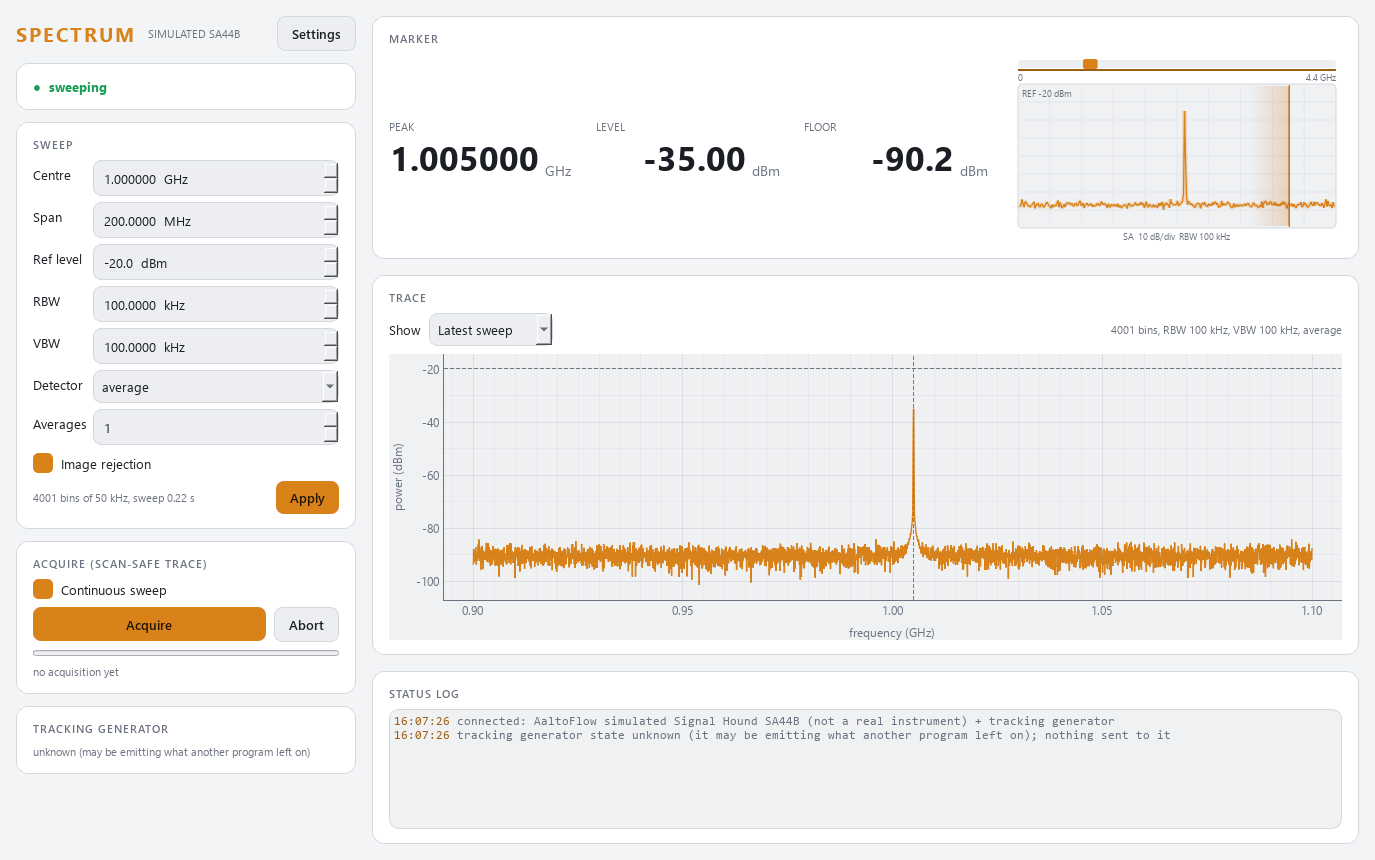
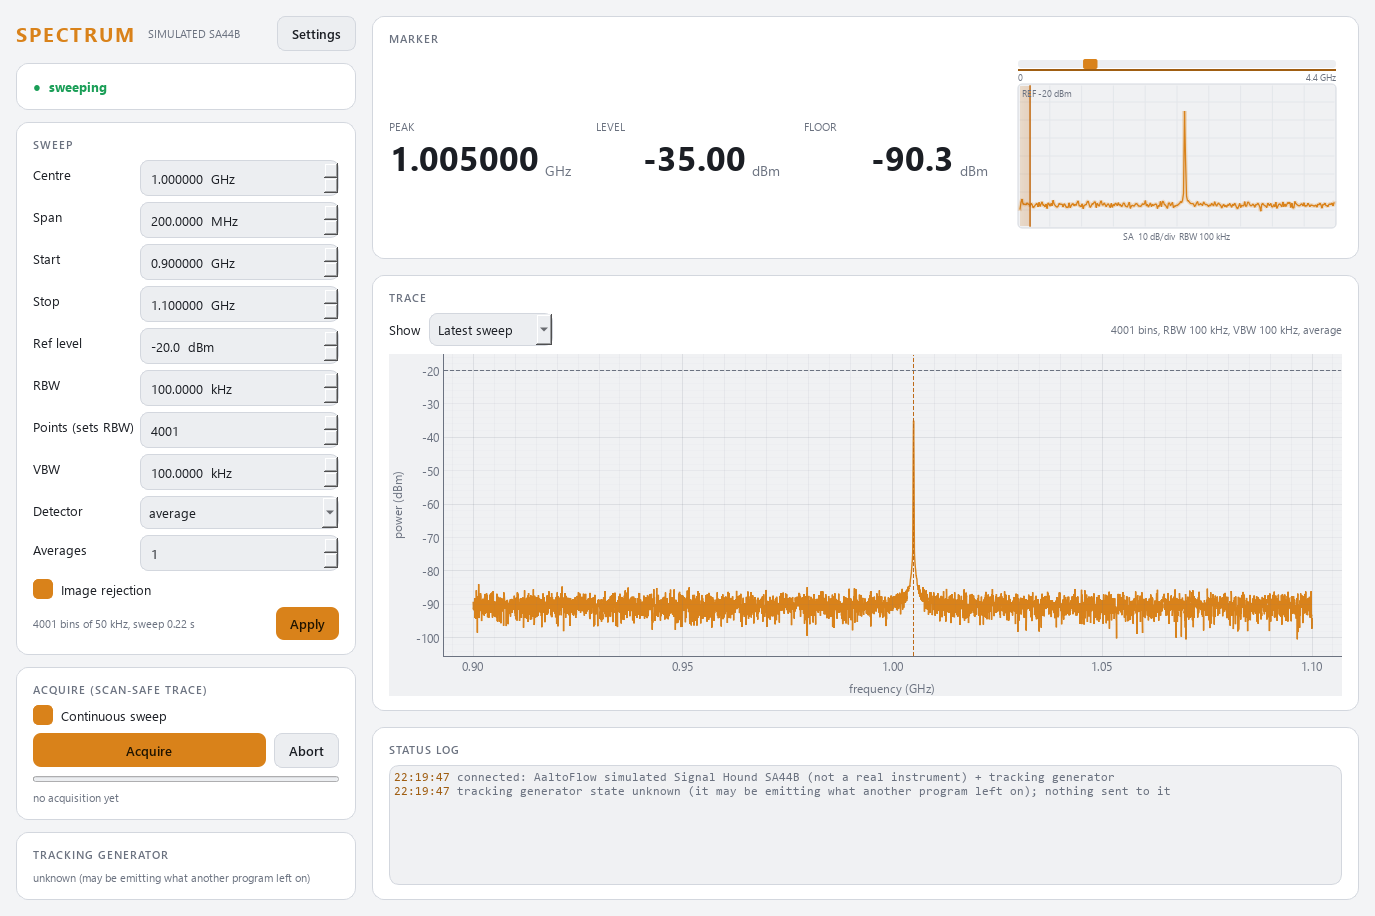
signalhound GUI: Start / Stop frequency, and Points that choose the RBW
Lukas (2026-10-01): set START and STOP instead of (as well as) centre/span,
and control the NUMBER OF POINTS.

- Start / Stop boxes (GHz) next to Centre / Span; whichever pair was edited
  is what Apply sends (set_start_stop, which the service already had); a
  reversed band is refused with a log line. Both pairs follow the service.
- Points (sets RBW): the SA44B makes its own bins from span and RBW, so N
  points = the RBW giving about N bins (Lukas's choice). The RBW/bin ratio is
  taken from what the analyser reports (100 kHz -> 28.6 kHz bins: 3.5), VBW
  is lowered with it when needed, and the box then shows the bins the
  analyser really made.
- All three use the pending-edit (dirty) logic of bd3ba1e.

Tests: test_gui_pending_edits.py +2 (start/stop, points). signalhound 155
passed. Panel re-rendered in both themes.

diff --git a/modules/detector/signalhound-control/src/signalhound/apps/gui.py b/modules/detector/signalhound-control/src/signalhound/apps/gui.py
@@ -353,12 +353,24 @@ class MainWindow(QtWidgets.QMainWindow):
         self.rbw_spin = self._dspin(lim.rbw_min_Hz / 1e3, lim.rbw_max_Hz / 1e3, 4, "  kHz", 1.0)
         self.vbw_spin = self._dspin(lim.rbw_min_Hz / 1e3, lim.rbw_max_Hz / 1e3, 4, "  kHz", 1.0)
         self.avg_spin = QtWidgets.QSpinBox(); self.avg_spin.setRange(lim.averages_min, lim.averages_max)
+        # Start / Stop: the same band as Centre / Span, the other way round
+        # (Lukas, 2026-10-01). Whichever pair was edited is what Apply sends.
+        self.start_spin = self._dspin(lim.freq_min_Hz / 1e9, lim.freq_max_Hz / 1e9, 6, "  GHz", 0.01)
+        self.stop_spin = self._dspin(lim.freq_min_Hz / 1e9, lim.freq_max_Hz / 1e9, 6, "  GHz", 0.01)
+        # Points: the SA44B chooses its own bins from span and RBW, so a number
+        # of points is reached by choosing the RBW (Lukas's choice). The box
+        # then shows the bin count the analyser really made.
+        self.points_spin = QtWidgets.QSpinBox(); self.points_spin.setRange(2, 1_000_000)
+        self.points_spin.setToolTip("Sets the RBW for about this many bins over the span; "
+                                    "shows the bins the analyser chose.")
         self.det_combo = QtWidgets.QComboBox(); self.det_combo.addItems(list(DETECTORS))
         # applies at once: it is a choice, not a number being typed
         self.det_combo.activated.connect(lambda _i: self._call(
             self.ctrl.set_detector, self.det_combo.currentText()))
         for label, wdg in (("Centre", self.center_spin), ("Span", self.span_spin),
+                           ("Start", self.start_spin), ("Stop", self.stop_spin),
                            ("Ref level", self.ref_spin), ("RBW", self.rbw_spin),
+                           ("Points (sets RBW)", self.points_spin),
                            ("VBW", self.vbw_spin), ("Detector", self.det_combo),
                            ("Averages", self.avg_spin)):
             form.addRow(label, wdg)
@@ -384,8 +396,9 @@ class MainWindow(QtWidgets.QMainWindow):
         # an amber outline, and Apply (or Enter in it) sends it and clears it.
         self._dirty: set = set()
         self._syncing = False            # True while the POLL sets values
-        self._sweep_spins = (self.center_spin, self.span_spin, self.ref_spin,
-                             self.rbw_spin, self.vbw_spin, self.avg_spin)
+        self._sweep_spins = (self.center_spin, self.span_spin, self.start_spin,
+                             self.stop_spin, self.ref_spin, self.rbw_spin,
+                             self.points_spin, self.vbw_spin, self.avg_spin)
         for spin in self._sweep_spins:
             spin.valueChanged.connect(lambda _v, s=spin: self._mark_dirty(s))
             spin.lineEdit().returnPressed.connect(self._apply_sweep)
@@ -516,20 +529,49 @@ class MainWindow(QtWidgets.QMainWindow):
         logs an event, and six of them for one click would bury the log.
         RBW goes before VBW, because VBW may not exceed it."""
         s = self.ctrl.status()
-        for spin, now, scale, setter in (
-                (self.center_spin, s.center_Hz, 1e9, self.ctrl.set_center),
-                (self.span_spin, s.span_Hz, 1e6, self.ctrl.set_span),
-                (self.ref_spin, s.ref_level_dBm, 1, self.ctrl.set_ref_level),
-                (self.rbw_spin, s.rbw_Hz, 1e3, self.ctrl.set_rbw),
+        by_edges = bool({self.start_spin, self.stop_spin} & self._dirty)
+        if by_edges:
+            # the band was typed as Start / Stop: send that pair, not centre/span
+            a, b = self.start_spin.value() * 1e9, self.stop_spin.value() * 1e9
+            if b <= a:
+                self._on_event("warn", "Stop must be above Start -- not sent")
+                return
+            self._call(self.ctrl.set_start_stop, a, b)
+            span_Hz = b - a
+        else:
+            span_Hz = self.span_spin.value() * 1e6
+        # Points -> the RBW that gives about that many bins over the span. The
+        # bin width follows the RBW in a fixed ratio on this analyser; take the
+        # ratio from what it reports now (100 kHz RBW -> 28.6 kHz bins: 3.5),
+        # so the rule follows the device rather than a number typed here.
+        rbw_want = None
+        if self.points_spin in self._dirty:
+            ratio = (s.rbw_Hz / s.bin_Hz) if (isinstance(s.bin_Hz, float)
+                                               and math.isfinite(s.bin_Hz) and s.bin_Hz > 0
+                                               and s.rbw_Hz > 0) else 3.5
+            rbw_want = ratio * span_Hz / max(2, self.points_spin.value())
+        rows = [(self.ref_spin, s.ref_level_dBm, 1, self.ctrl.set_ref_level),
                 (self.vbw_spin, s.vbw_Hz, 1e3, self.ctrl.set_vbw),
-                (self.avg_spin, s.averages, 1, self.ctrl.set_averages)):
+                (self.avg_spin, s.averages, 1, self.ctrl.set_averages)]
+        if rbw_want is None:
+            rows.insert(1, (self.rbw_spin, s.rbw_Hz, 1e3, self.ctrl.set_rbw))
+        if not by_edges:
+            rows[:0] = [(self.center_spin, s.center_Hz, 1e9, self.ctrl.set_center),
+                        (self.span_spin, s.span_Hz, 1e6, self.ctrl.set_span)]
+        for spin, now, scale, setter in rows:
+            if setter is self.ctrl.set_vbw and rbw_want is not None:
+                continue                         # handled with the RBW below
             want = spin.value() * scale
             if not (isinstance(now, (int, float)) and math.isclose(want, now, rel_tol=1e-9,
                                                                      abs_tol=1e-9)):
                 self._call(setter, want)
+        if rbw_want is not None:
+            # RBW before VBW: VBW may not exceed RBW
+            self._call(self.ctrl.set_rbw, rbw_want)
+            self._call(self.ctrl.set_vbw, min(self.vbw_spin.value() * 1e3, rbw_want))
         # a new span may have been refused until the new centre was in; send it again
-        if not math.isclose(self.span_spin.value() * 1e6, self.ctrl.status().span_Hz, abs_tol=1.0):
-            self._call(self.ctrl.set_span, self.span_spin.value() * 1e6)
+        if not by_edges and not math.isclose(span_Hz, self.ctrl.status().span_Hz, abs_tol=1.0):
+            self._call(self.ctrl.set_span, span_Hz)
         # sent: the boxes follow the service again (a refused value is put back
         # by the next poll, and the log says why)
         for spin in list(self._dirty):
@@ -574,6 +616,8 @@ class MainWindow(QtWidgets.QMainWindow):
         try:
             for spin, val in ((self.center_spin, s.center_Hz / 1e9),
                               (self.span_spin, s.span_Hz / 1e6),
+                              (self.start_spin, getattr(s, "start_Hz", math.nan) / 1e9),
+                              (self.stop_spin, getattr(s, "stop_Hz", math.nan) / 1e9),
                               (self.ref_spin, s.ref_level_dBm), (self.rbw_spin, s.rbw_Hz / 1e3),
                               (self.vbw_spin, s.vbw_Hz / 1e3)):
                 if math.isfinite(val) and (force or (not spin.hasFocus()
@@ -581,6 +625,10 @@ class MainWindow(QtWidgets.QMainWindow):
                     spin.setValue(val)
             if force or (not self.avg_spin.hasFocus() and self.avg_spin not in self._dirty):
                 self.avg_spin.setValue(int(s.averages))
+            points = int(getattr(s, "points", 0) or 0)
+            if points >= 2 and (force or (not self.points_spin.hasFocus()
+                                          and self.points_spin not in self._dirty)):
+                self.points_spin.setValue(points)   # the bins the analyser really made
         finally:
             self._syncing = False
         if force or not self.det_combo.view().isVisible():

diff --git a/modules/detector/signalhound-control/tests/test_gui_pending_edits.py b/modules/detector/signalhound-control/tests/test_gui_pending_edits.py
@@ -54,6 +54,59 @@ def test_edits_survive_the_poll_until_apply(app):
         win.close()
 
 
+def test_start_and_stop_set_the_band(app):
+    """Lukas: set START and STOP instead of centre/span."""
+    from signalhound.apps.gui import MainWindow
+    cfg = Config()
+    sa, _sim = build_sim_system(cfg, realtime=False, seed=3)
+    win = MainWindow(_NoThread(sa), cfg)
+    try:
+        win._refresh()
+        win.start_spin.setValue(1.0)
+        win.stop_spin.setValue(1.2)
+        win._refresh()                             # the poll does not undo them
+        assert win.start_spin.value() == pytest.approx(1.0)
+        win._apply_sweep()
+        st = sa.status()
+        assert st.start_Hz == pytest.approx(1.0e9) and st.stop_Hz == pytest.approx(1.2e9)
+        win._refresh()                             # centre / span follow the new band
+        assert win.center_spin.value() == pytest.approx(1.1)
+        assert win.span_spin.value() == pytest.approx(200.0)
+        # a reversed band is refused, nothing sent
+        win.start_spin.setValue(1.5)
+        win.stop_spin.setValue(1.4)
+        win._apply_sweep()
+        assert sa.status().start_Hz == pytest.approx(1.0e9)
+    finally:
+        win.close()
+
+
+def test_points_choose_the_rbw_and_show_the_real_bins(app):
+    """Lukas's choice: N points = the RBW that gives about N bins; the box then
+    shows the bin count the analyser really made."""
+    from signalhound.apps.gui import MainWindow
+    cfg = Config()
+    cfg.sweep.span_Hz = 20e6
+    cfg.acquisition.sweep_on_start = True
+    sa, _sim = build_sim_system(cfg, realtime=False, seed=3)
+    win = MainWindow(_NoThread(sa), cfg)
+    try:
+        sa.step()
+        win._refresh()
+        before = sa.status().points
+        assert before >= 2 and win.points_spin.value() == before
+        win.points_spin.setValue(before * 4)       # four times finer
+        win._apply_sweep()
+        sa.step()
+        win._refresh()
+        after = sa.status().points
+        assert after > before * 2                  # the RBW really went down
+        assert sa.status().vbw_Hz <= sa.status().rbw_Hz
+        assert win.points_spin.value() == after    # shows what the analyser made
+    finally:
+        win.close()
+
+
 def test_enter_in_a_box_applies(app):
     from signalhound.apps.gui import MainWindow
     cfg = Config()
